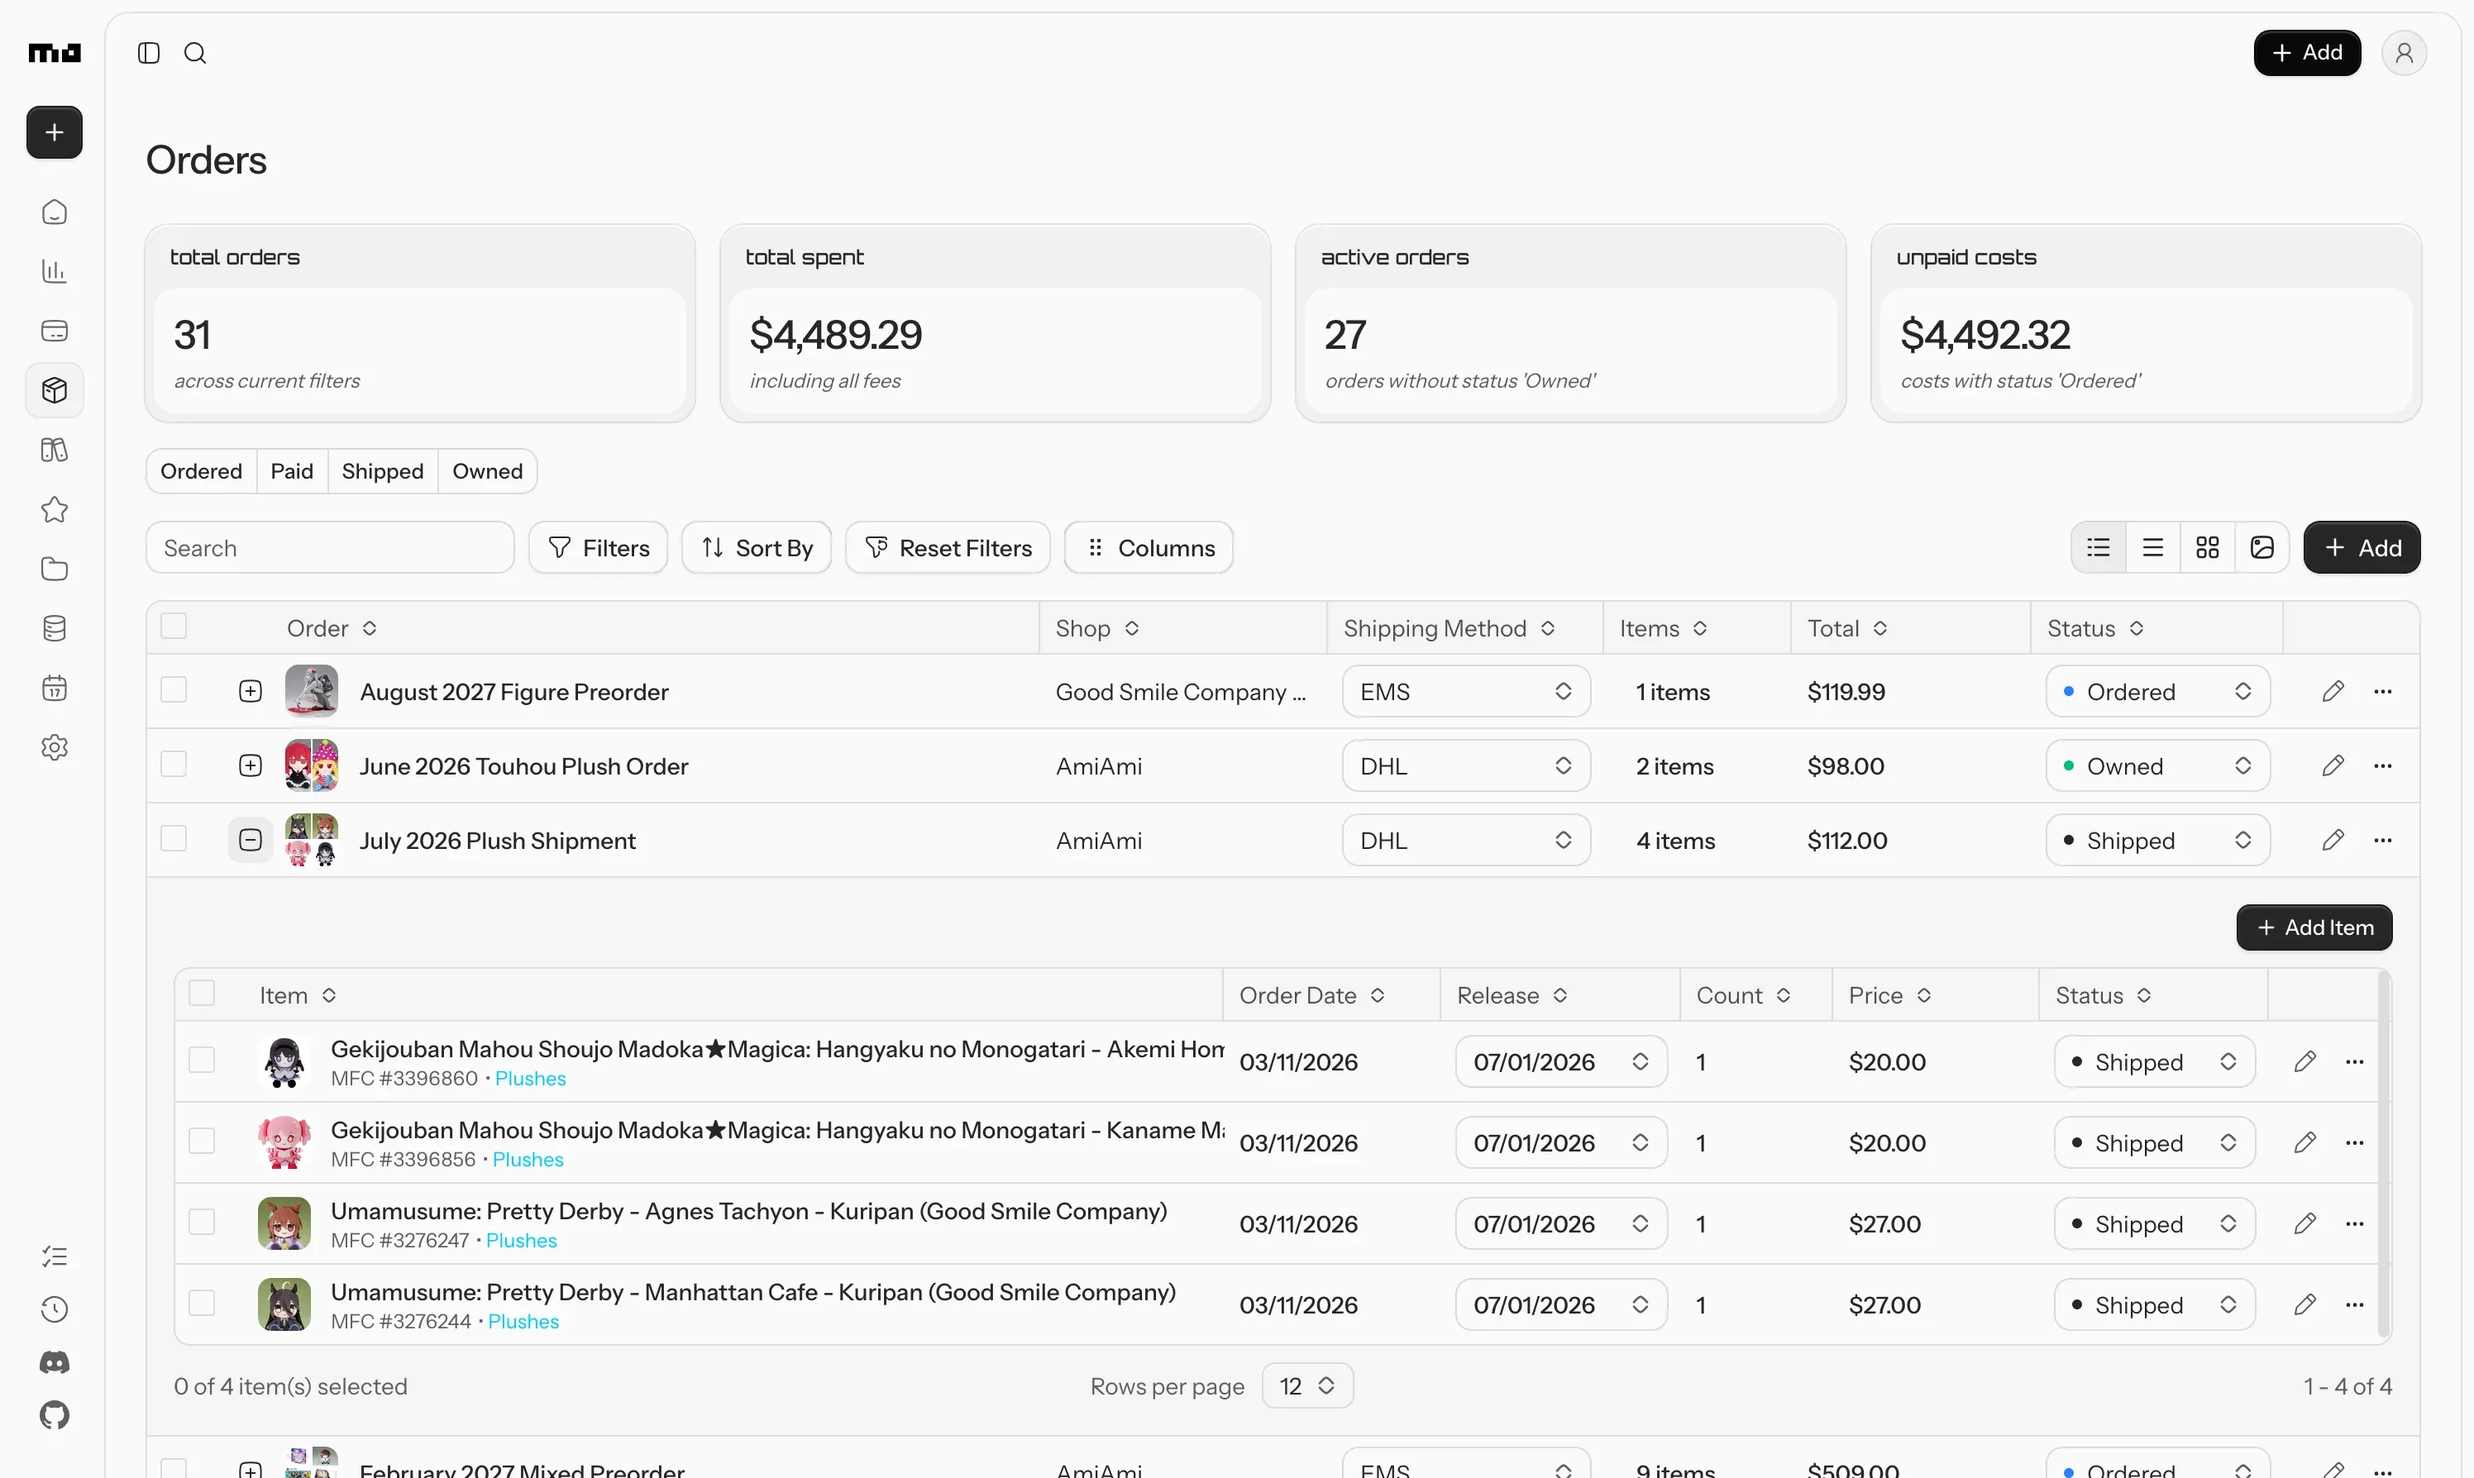
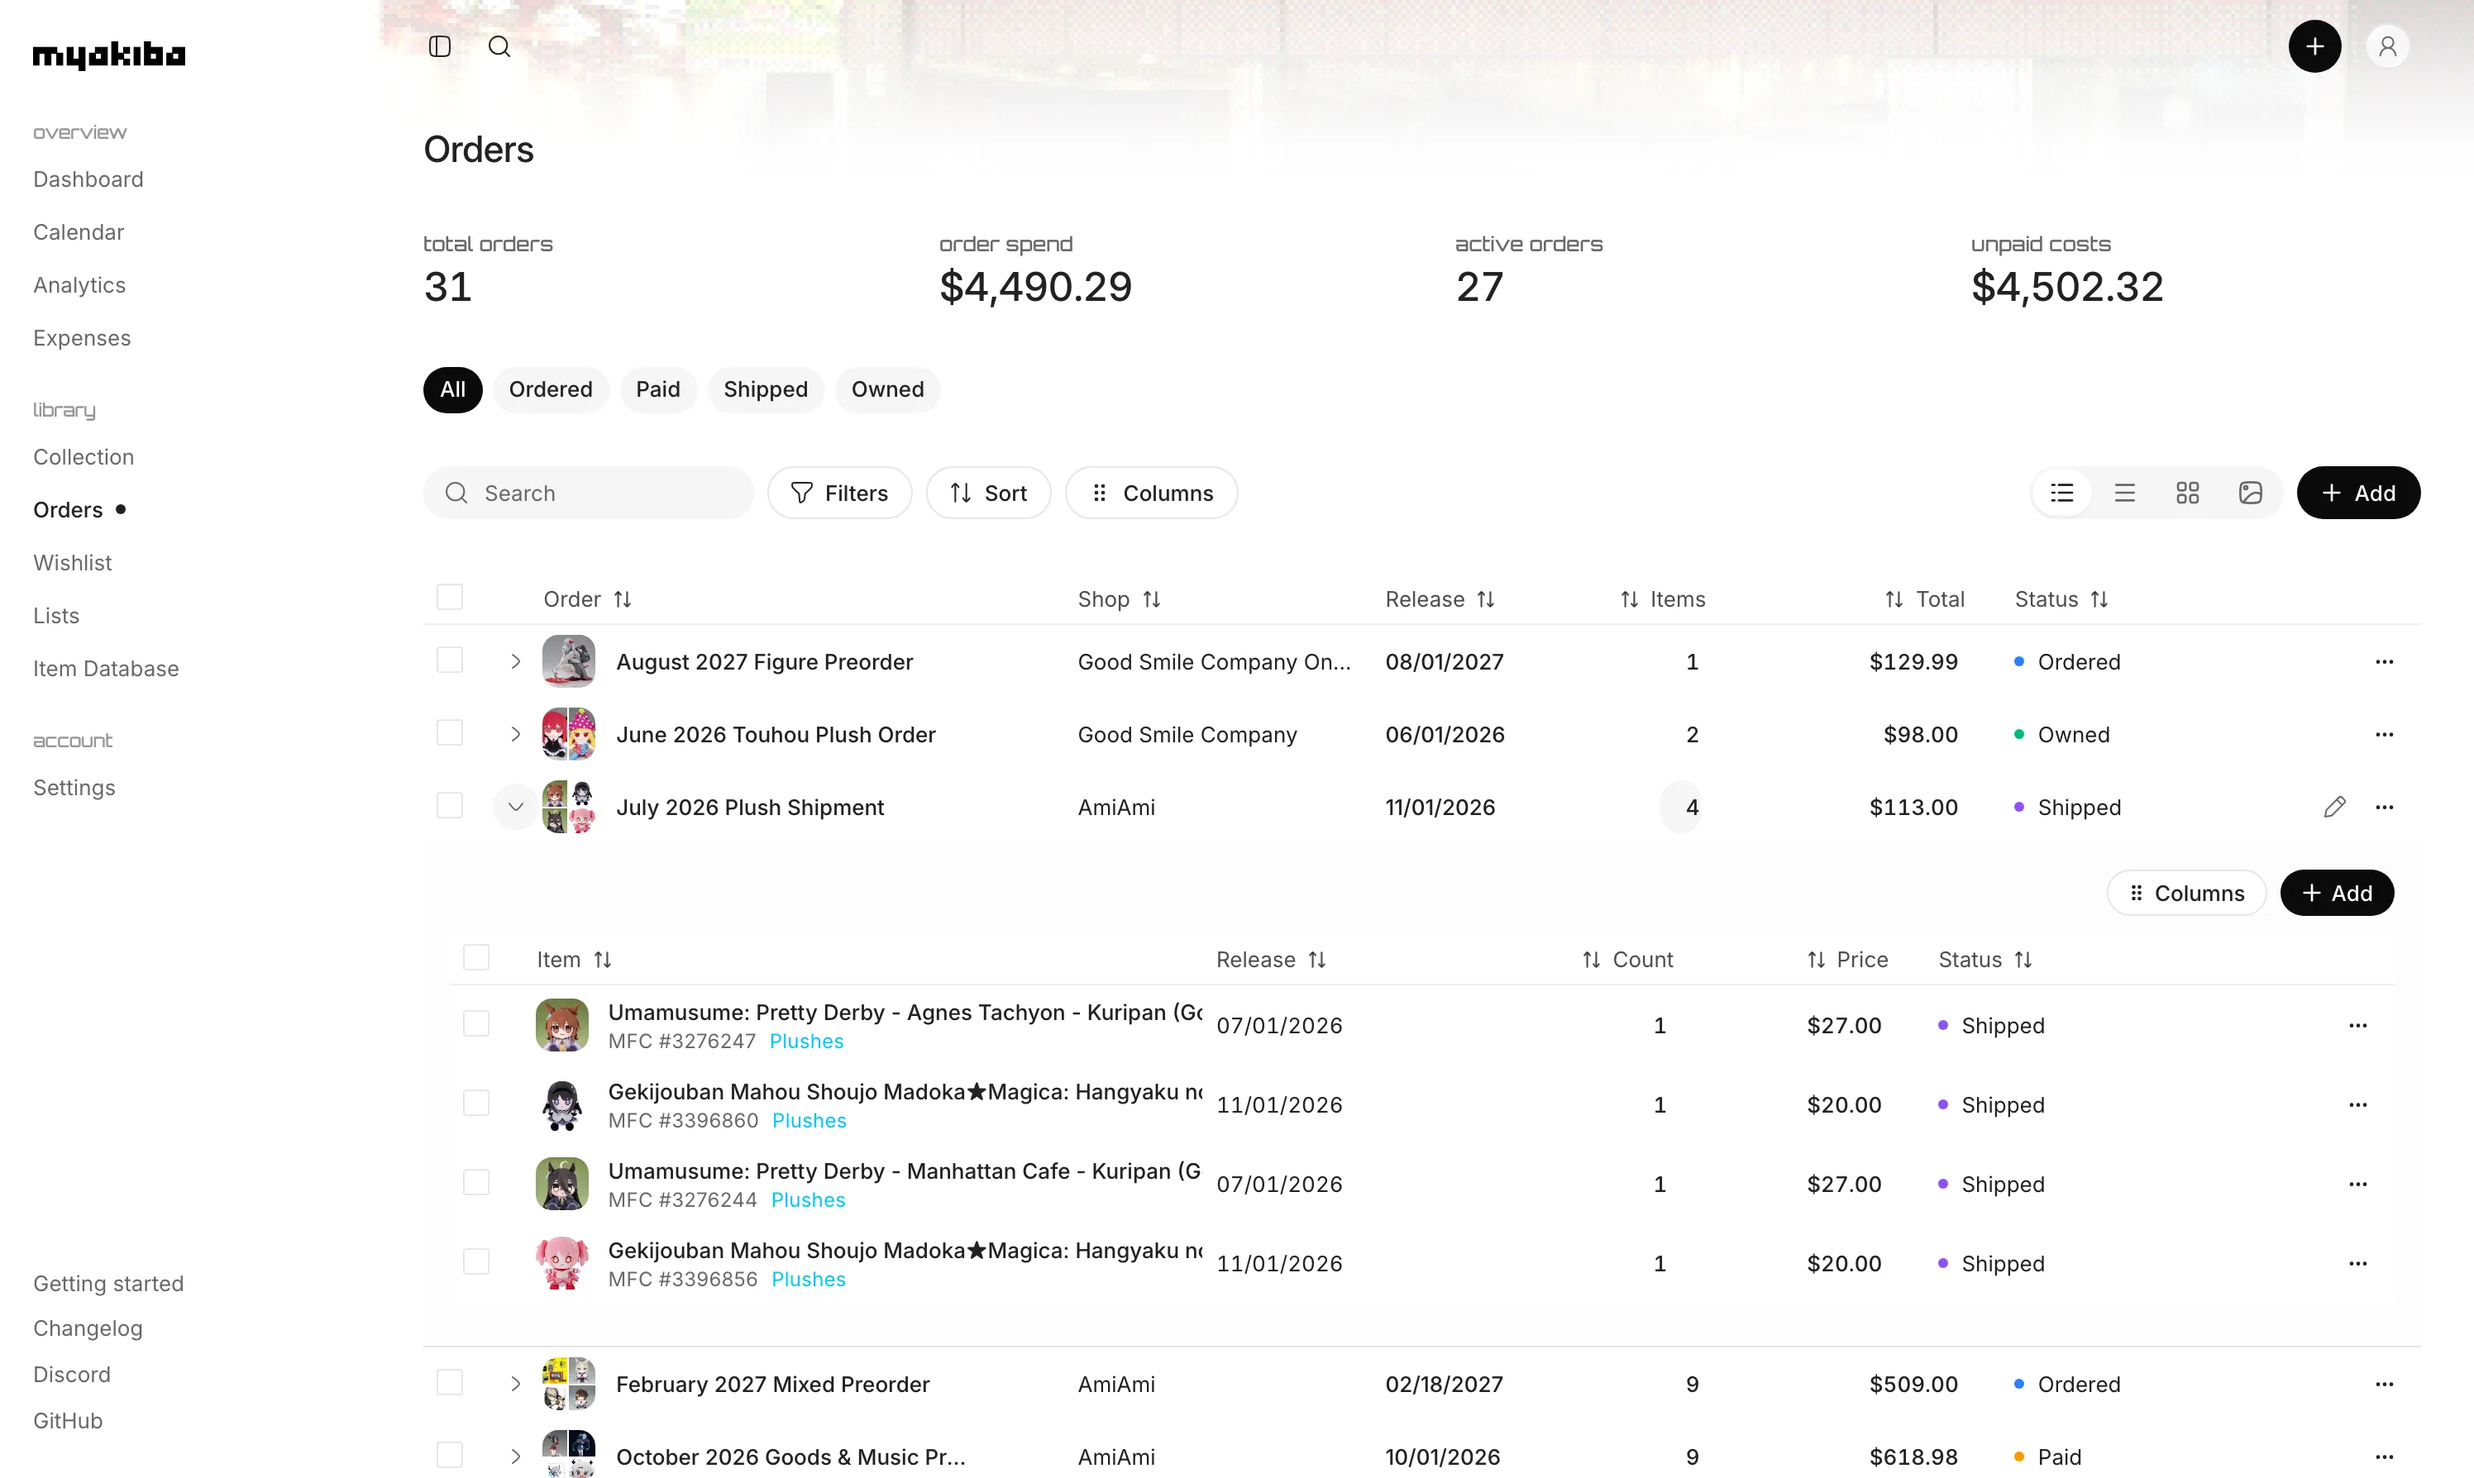
docs: recapture the README screens from staging
The README's og-image and its dashboard, collection, orders and analytics
screens showed the app before the redesign, with the icon sidebar and the
Add button in the sidebar. They are recaptured from a staging build of the
owner's account, light theme only, at the same 2992x1788 size. The orders
shot keeps July 2026 Plush Shipment expanded to its four items, and the
collection shot keeps the Figures filter sorted by score.

The og-image keeps its background, wordmark and taglines, with a fresh dark
dashboard in the device frame.

The README gains an Add section that uses staging's current add-light.webp.

diff --git a/README.md b/README.md
@@ -54,6 +54,15 @@ myakiba is being created in hopes to be a useful alternative, as well as a fun/l
 
 ## Page showcase
 
+### Add
+
+Click Pick for myakiba on any MyFigureCollection item page, and the item lands on the Add page with
+its information already filled in. Choose where your picks go: your collection, a new or existing
+order, your wishlist, or your lists. Set the price, count, and condition for each item, then add
+them all at once.
+
+![Add](apps/web/public/add-light.webp)
+
 ### Dashboard
 
 The overview puts your total items, total spend, active orders, and unpaid costs up front. It also
